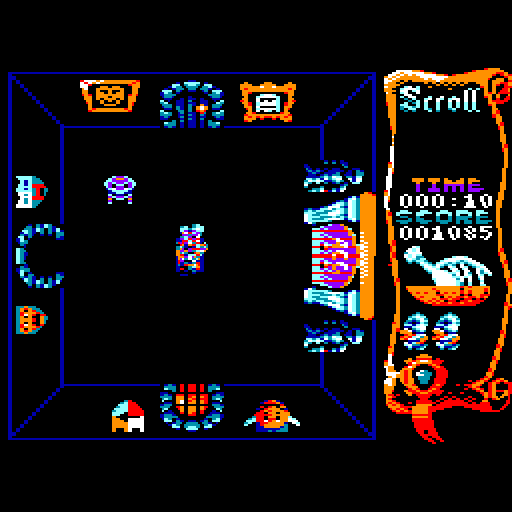
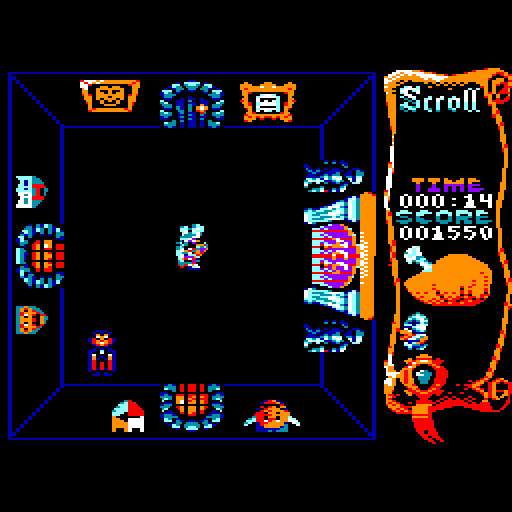
Вектор Турбо+ и CP/M: определение машины и порты в загрузчике, чтение стороны дорожки подряд, стенд TURBOCHK; новый скриншот Дракулы

diff --git a/stand/vec/gamerun.js b/stand/vec/gamerun.js
@@ -6,6 +6,7 @@
 "use strict";
 const fs = require("fs"), vm = require("vm");
 const base = process.env.V06JS || require("path").join(require("os").homedir(), "projects/vector06js");
+const TCHK = !!process.env.TURBOCHK; let kvp = 0, tstk = 0; const tviol = {};   // TURBOCHK=1: call/ret/rst/ei/halt и прерывания при стековом режиме порта 10h (на Турбо+ идут мимо квазидиска)
 const [NF, OUTDIR, SCRIPT] = process.argv.slice(2);
 const ROOTD = require('path').join(__dirname, '../..');
 const ROM = ROOTD + '/build/game/aticatac.rom', SYM = ROOTD + '/build/game/aticatac.sym';
@@ -144,15 +145,19 @@ while (frames < N) {
   if (cpu.pc === S.zero_leftover) nRep++; else if (cpu.pc === S.ou_xor) nXor++; else if (cpu.pc === S.ou_newonly) nNew++;
   if (cpu.pc === S.logic_step) { loops++; if (lastT) tickT.push(total - lastT); lastT = total; }
   if (irqUntil >= 0) {
-    if (cpu.iff) { v06c.irq = true; v06c.checkInterrupt(); irqUntil = -1; irqOk++; }
+    if (cpu.iff) { if (TCHK && (kvp & 0x10)) { const n = 'прерывание в ' + nmOf(cpu.pc).split('+')[0]; tviol[n] = (tviol[n] || 0) + 1; } v06c.irq = true; v06c.checkInterrupt(); irqUntil = -1; irqOk++; }
     else if (frc >= irqUntil) { irqUntil = -1; irqLost++; const n = nmOf(cpu.pc).split('+')[0]; lostAt[n] = (lostAt[n] || 0) + 1; if (process.env.LOSTDBG && /^bx_|^bo_|^zf_/.test(n)) console.log('потеря в', n, 'кадр', frames, 'di_guard был при такте кадра', lastDg, 'стоимость', rd(S.dg_cost), 'прошло с него', total - lastDgT); }
   }
   const pc0 = cpu.pc;
+  if (TCHK && (kvp & 0x10)) tstk++;
+  if (TCHK && (kvp & 0x10)) { const op = rd(pc0); const k = op === 0xcd || (op & 0xc7) === 0xc4 ? 'call' : op === 0xc9 || (op & 0xc7) === 0xc0 ? 'ret' : (op & 0xc7) === 0xc7 ? 'rst' : op === 0xfb ? 'ei' : op === 0x76 ? 'halt' : null; if (k) { const n = k + ' в ' + nmOf(pc0).split('+')[0]; tviol[n] = (tviol[n] || 0) + 1; } }
   const c = (cpu.instruction(), cpu.vcycles); frc += c; total += c; tacc += c;
   if (process.env.PROF && (!process.env.PROFR || (process.env.PROFR === '1' ? fnOpen[S.render_sprites] : upd))) { let n = profCache.get(pc0); if (!n) { n = nmOf(pc0).split('+')[0]; profCache.set(pc0, n); } prof[n] = (prof[n] || 0) + c; }
   if (tacc > 1) { const tn = tacc >> 1; tacc -= tn * 2; timer.Count(tn); }
+  if (cpu.last_opcode === 0xd3 && memory.bytes[memory.tobank((cpu.pc - 1) & 0xffff)] === 0x10) kvp = cpu.a();
   if (cpu.last_opcode === 0xd3) { if (process.env.SNDT) { const port = memory.bytes[memory.tobank((cpu.pc - 1) & 0xffff)]; sndOut[port] = (sndOut[port] || 0) + 1; if (port === 0x15) ayReg = cpu.a() & 15; else if (port === 0x14) ayShadow[ayReg] = cpu.a(); else if (port === 0x0A || port === 0x09) { const k = port === 0x0A ? 1 : 2; viB[k].push(cpu.a()); if (viB[k].length === 2) { viLog.push([frames, k, viB[k][0] | viB[k][1] << 8]); viB[k] = []; } } else if (port === 8) { const v = cpu.a(); if ((v & 0xc0) === 0x40 || (v & 0xc0) === 0x80) { const k = v >> 6; viB[k] = []; if ((v & 0x0e) === 0) viLog.push([frames, k, 0]); } } } io.commit(); }
 }
+if (TCHK) console.log('Турбо+ (стековый режим квазидиска, команд ' + tstk + '): ' + (Object.keys(tviol).length ? 'НАРУШЕНИЯ ' + JSON.stringify(tviol) : 'нарушений нет'));
 if (process.env.PROF) { const tot = Object.values(prof).reduce((a, b) => a + b, 0); for (const [k, v] of Object.entries(prof).sort((a, b) => b[1] - a[1]).slice(0, +process.env.PROFN || 18)) console.log(k.padEnd(22), (v / tot * 100).toFixed(1) + '%', (v / 59904).toFixed(1) + ' кадра'); }
 if (process.env.LOOPST) {
   const q = (a, f) => { a = a.slice().sort((x, y) => x - y); return a[Math.min(a.length - 1, Math.floor(a.length * f))]; };

diff --git a/docs/JOURNAL.md b/docs/JOURNAL.md
@@ -191,3 +191,19 @@ build/game/aticatac.r0m + .edd: логика i8080 + комнаты + спрай
   pixsmooth.smooth2x(rows, holes=True) — край и у чёрного внутри фигуры (контурный рисунок). Размеры данных те же:
   в ROM изменились только 18 байт glyphs, остальное — квазидиск. Меню и заставка — в разрешении Вектора, не трогались.
   shipcheck 0, ECHK 0.
+
+## 2026-10-26 — Вектор Турбо+ и CP/M
+- Загрузчик (src/vec/fddload.asm): turbo_init по порту Ianna — порт 45h (кадровый импульс), на Турбо+
+  40h = 41h = 46h = 0, 43h = 0Fh, 42h = 60h, 44h = 0 (12 МГц); вызывается в самом начале, до переноса загрузчика
+  наверх (CP/M держит E000..FFFF в СОЗУ) и до первой записи в порт 0x10. fd_rdy (FORCE INTERRUPT + READY) — один
+  раз перед первым чтением: на каждый сектор он стоил оборота диска.
+- Чтение стороны дорожки подряд в буфер TRK_BUF 0xE000..0xF3FF (до 5 секторов), разбор — потом; загрузчик
+  переехал на 0xF400, стек с 0xFFFF. Прежде перенос сектора в квазидиск между чтениями был дольше промежутка
+  между секторами — на модели Турбо+ 11,7 кадра на сектор, загрузка ~60 с; теперь ~20 с.
+- Стенд: TURBOCHK=1 в gamerun.js — call/ret/rst/ei/halt и прерывания при стековом режиме порта 10h (на Турбо+
+  в квазидиск идут только PUSH/POP). Игра и загрузка с дискеты: ~1,1 млн команд в стековом режиме, нарушений нет.
+- Модель Турбо+ (~/projects/vturbo-js, VectorT+.bin, HDD.img): стартовый экран ПЗУ (РУС/ЛАТ, FDD 0, ATICATAC.COM)
+  и CP/M 4.0 (`A:`, `ATICATAC -V`) — заставка, меню, игра. DIR CP/M показывает файлы дважды (в скобках и без) —
+  так же и у Ianna, формат вывода CP/M. cpmtools: ATICATAC.COM = загрузчик.
+- 06Ц: загрузка с дискеты на стенде — старт на кадре 687, ОЗУ и квазидиск = образы сборки.
+- Скриншот dracula.png заменён: прежний — Дракула поверх героя.
